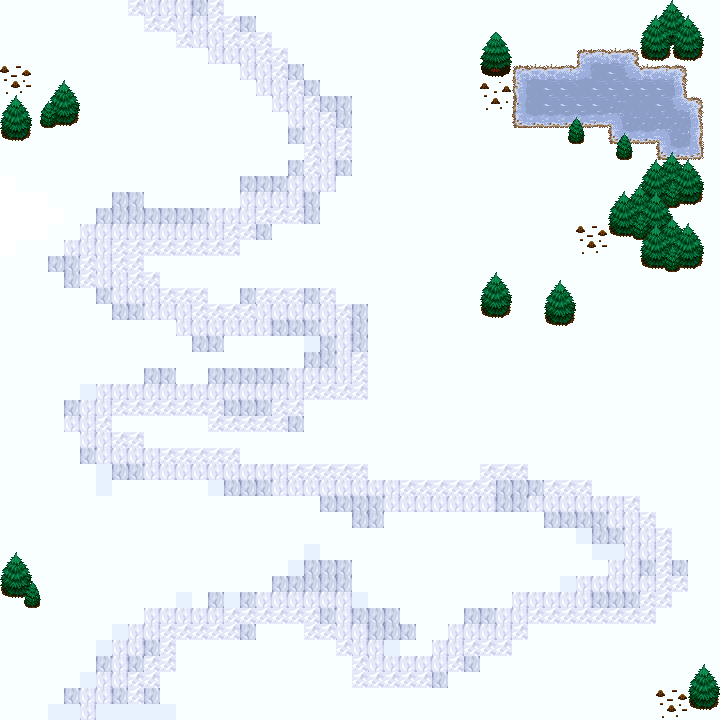
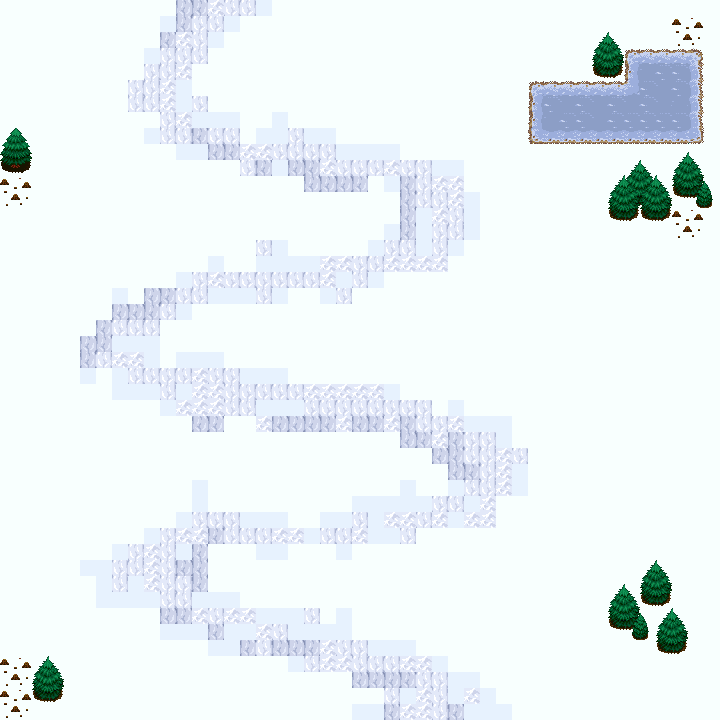
Choix des Maps mis à jour

diff --git a/src/main/java/fr/iut/montreuil/stationski/Vue/VueTerrain.java b/src/main/java/fr/iut/montreuil/stationski/Vue/VueTerrain.java
@@ -63,7 +63,6 @@ public class VueTerrain {
         int[] listeMap = new int[45 * 45];
 
         String path;
-
         if (this.intMapSelect == 0) path = "src/main/resources/fr/iut/montreuil/stationski/TileSet_Final_CSV.csv";
         else if (this.intMapSelect == 1) path = "src/main/resources/fr/iut/montreuil/stationski/TileSet2_Final_CSV.csv";
         else if (this.intMapSelect == 2) path = "src/main/resources/fr/iut/montreuil/stationski/TileSet3_Final_CSV.csv";

diff --git a/src/main/java/fr/iut/montreuil/stationski/ChoixMap.java b/src/main/java/fr/iut/montreuil/stationski/ChoixMap.java
@@ -1,7 +1,7 @@
 package fr.iut.montreuil.stationski;
 
 public class ChoixMap {
-    public static int ChoixMap = 1;
+    public static int ChoixMap = 0;
 
     public static void setChoixMap(int n){
       ChoixMap = n;
